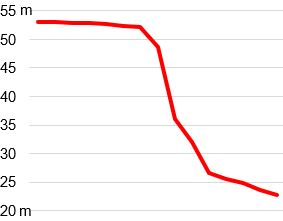
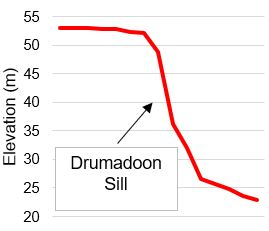
test18

diff --git a/index.html b/index.html
@@ -38,18 +38,28 @@
 				line-height: 30px;
 				width: 60px; 
 				margin-top: 50px;
-				margin-right: 60px;
+				margin-right: 5px;
 				position: absolute;
 				top: 0;
 				right: 0; 
 				background-color: white; 
 			}
 			
-			.border { 
+			.figureborder { 
 				border-style: solid; 
-				border-color:#287EC7;
-				padding: 2px; 
+				border-color:#FF2D00;
+				padding: 2px;
+				border-width: thin; 
+				background-color: #F9E5E1;  
 			} 
+			
+			.introborder { 
+				border-style: solid; 
+				border-color: #50B309; 
+				padding: 2px; 
+				border-width: thin; 
+				background-color:#E6FBD7;
+			}
 			
 		</style>
 	
@@ -192,7 +202,7 @@
 			L.geoJSON(inner_geofence1).addTo(map); 									// Add inner buffer to map 
 			L.geoJSON(outer_geofence1, {style: myStyle}).addTo(map); 			// Add outer buffer with style 
 			//create content for Goatfell 
-			var g_popupContent = ("<h1> Well done! You found Goatfell! </h1> <br> <b class='border'>Dominant rock type:</b> Granite </p> <b> Periods: </b> Paleogene (60 million years ago), Quaternary (2.5 million years ago)</p> </b> <p>Goatfell (Gaoda Bheinn) is the highest peak in Arran, standing at 874m at the summit. Goatfell started life as a volcano and was shaped into its current form by glaciers during the last ice age. </p> <img src= 'goatfell_hillshade_2.PNG'/> <p> This map shows the North Arran Mountains, encompassing Goatfell and its surroundings.</p> <p> The North Arran Mountains were formed by a granite pluton forcing its way through Northern Arran. Plutons form when magmas rise through the crust into dome shaped intrusions which are then exposed over time by erosion.</p> <img src = 'pluton.jpg'/> <p> Of course, today the mountains are no longer domed shaped, having been shaped by quaternary glaciation. The angular peaks of Goatfell display great examples of erosional features. Two particularly visible on the map are aretes and corries.</p> <img src='Goatfell_Corries.PNG'/> </p> Corries are circular depressions which form as accumulated snow in hollows turns to ice. As the ice moves downhill, the bottom of the hollow is eroded. This erosion is uneven and causes a lip to form. When two corries erode back to back, an arete, a narrow ridge is formed </p>")   //Add content using HTML tags 
+			var g_popupContent = ("<h1> Well done! You found Goatfell! </h1><b> Dominant rock type:</b> Granite</p><b> Periods: </b> Paleogene (60 million years ago), Quaternary (2.5 million years ago)</p> </b> <p>Goatfell (Gaoda Bheinn) is the highest peak in Arran, standing at 874m at the summit. Goatfell started life as a volcano and was shaped into its current form by glaciers during the last ice age. </p> <img src= 'goatfell_hillshade_2.PNG'/><p class='figureborder'> This map shows the North Arran Mountains, encompassing Goatfell and its surroundings.</p> <p> The North Arran Mountains were formed by a granite pluton forcing its way through Northern Arran. Plutons form when magmas rise through the crust into dome shaped intrusions which are then exposed over time by erosion.</p> <img src = 'pluton.jpg'/> <p> Of course, today the mountains are no longer domed shaped, having been shaped by quaternary glaciation. The angular peaks of Goatfell display great examples of erosional features. Two particularly visible on the map are aretes and corries.</p> <img src='Goatfell_Corries.PNG'/> </p> Corries are circular depressions which form as accumulated snow in hollows turns to ice. As the ice moves downhill, the bottom of the hollow is eroded. This erosion is uneven and causes a lip to form. When two corries erode back to back, an arete, a narrow ridge is formed </p>")   //Add content using HTML tags 
 			var g_popup = g.bindPopup(g_popupContent, { //Note to self- don't use double quotes with classes 
 				maxWidth: 320, 
 				maxHeight: 400// Makes sure popups accomadate photos 
@@ -207,7 +217,7 @@
 			L.geoJSON(inner_geofence2).addTo(map); 									// Add inner buffer to map 
 			L.geoJSON(outer_geofence2, {style: myStyle}).addTo(map); 			// Add outer buffer to map with style 
 			//Create content for Drumadoon Sill 	
-			var ds_popupContent = ("<b> Well done! You found Drumadoon Sill! </b> <br> <b> Dominant rock type:</b> Felsite </p> <b> Periods: </b> Paleogene (65 million years ago) </p> <p>Drumadoon Sill represents an igneous intrusion which forms part of a larger network of igneous features on the island.</p> <img src='sill_geology.JPG'/> <p> Sills are formed when volcanic magma intrudes between two layers of pre-exisitng sandstone. This is visible on the geology map where felsite intrudes the surrounding sandstone. The magma here originated from the same volcanic centre as the Northern Mountains and was intruded horizonally (remember window sills!).</P> <img src ='sill_cross_section.JPG'/> <p> Weathering of the surrounding softer sandstone led to the exposure of the volcanic rock as a sheer cliff, as can be seen in the cross section. The hexagon vertical columns (known as columnar joining) are a result of the presence of Quartz and Felspar and form during the cooling process. Similar columns can be seen at the Giant's Causeway and on the island of Staffa. </p>")   //Add content using HTML tags 
+			var ds_popupContent = ("<h1> Well done! You found Drumadoon Sill! </h1><b> Dominant rock type:</b> Felsite </p><b> Periods: </b> Paleogene (65 million years ago) </p> <p>Drumadoon Sill represents an igneous intrusion which forms part of a larger network of igneous features on the island.</p> <img src='sill_geology.JPG'/> <p> Sills are formed when volcanic magma intrudes between two layers of pre-exisitng sandstone. This is visible on the geology map where felsite intrudes the surrounding sandstone. The magma here originated from the same volcanic centre as the Northern Mountains and was intruded horizonally (remember window sills!).</P> <img src ='sill_cross_section.JPG'/> <p> Weathering of the surrounding softer sandstone led to the exposure of the volcanic rock as a sheer cliff, as can be seen in the cross section. The hexagon vertical columns (known as columnar joining) are a result of the presence of Quartz and Felspar and form during the cooling process. Similar columns can be seen at the Giant's Causeway and on the island of Staffa. </p>")   //Add content using HTML tags 
 			var ds_popup = ds.bindPopup(ds_popupContent, { 
 				maxWidth: 320, // Makes sure popups accomadate photos 
 				maxHeight: 400
@@ -222,7 +232,7 @@
 			L.geoJSON(inner_geofence3).addTo(map); 										// Add inner buffer to map 
 			L.geoJSON(outer_geofence3, {style: myStyle}).addTo(map); 				// Add outer buffer to map using style
 			//Create content for Corrie Sandstone 
-			var cs_popupContent = ("<b> Well done! You found Corrie Sandstone! </b> <br> <b> Dominant rock type: </b> Old red sandstone, Carboniferous rocks </p> <b> Periods: </b> Devonian (350 million years ago), Carboniferous (290 million years ago) </p> <p>This section of coastline at Corrie (An Coire) represents millions of years of geological time on Arran. The layers of rock present here provide an indication of the past conditions of the island.</p> <img src= 'CorrieSandstoneGeology.PNG'/><p>This geological map provides a snapshot of the variety of rocks in the area </p> <p> The red sandstone resembles sand dunes present on earth today and were formed when Arran consisted of its own desert. Dry conditions prevailed when Arran was located at a similar latitiude as the Sahara is now. Sand was deposited in a large desert and shaped by strong winds. The rocks are a distinctive red colour due to Iron Oxide. </p> <img src='sandstone_photo.jpg'/> <p> Conglomerates present were formed when eroded sediment from the nearby Caladonian mountains was washed into the area by flooding. The lava represents a Carboniferous lava flow. Overall the red sandstone and Carboniferous rocks represent very different geological time periods with harsh conditions in the former and more tropical conditions in the latter</p>")   //Add content using HTML tags 
+			var cs_popupContent = ("<h1> Well done! You found Corrie Sandstone! </h1><b> Dominant rock type: </b> Old red sandstone, Carboniferous rocks </p> <b> Periods: </b> Devonian (350 million years ago), Carboniferous (290 million years ago) </p> <p>This section of coastline at Corrie (An Coire) represents millions of years of geological time on Arran. The layers of rock present here provide an indication of the past conditions of the island.</p> <img src= 'CorrieSandstoneGeology.PNG'/><p>This geological map provides a snapshot of the variety of rocks in the area </p> <p> The red sandstone resembles sand dunes present on earth today and were formed when Arran consisted of its own desert. Dry conditions prevailed when Arran was located at a similar latitiude as the Sahara is now. Sand was deposited in a large desert and shaped by strong winds. The rocks are a distinctive red colour due to Iron Oxide. </p> <img src='sandstone_photo.jpg'/> <p> Conglomerates present were formed when eroded sediment from the nearby Caladonian mountains was washed into the area by flooding. The lava represents a Carboniferous lava flow. Overall the red sandstone and Carboniferous rocks represent very different geological time periods with harsh conditions in the former and more tropical conditions in the latter</p>")   //Add content using HTML tags 
 			var cs_popup = cs.bindPopup(cs_popupContent, { 
 				maxWidth: 320, 				// Makes sure popups accomadate photos
 				maxHeight: 400
@@ -234,9 +244,9 @@
 			let outer_geofence4 = turf.buffer(site_four, 0.1,{units: 'miles',steps:32});    // Add outer buffer
 			var gr = L.marker([53.795563,-1.755351], {icon:glenrosa}).bindPopup("Glen Rosa").addTo(map);  // Add custom icon 
 			L.geoJSON(inner_geofence4).addTo(map); 										// Add inner buffer to map 
-			L.geoJSON(outer_geofence4, {style: myStyle}).addTo(map); 				// Add outer buffer to map using style defined above 
+			L.geoJSON(outer_geofence4, {style: myStyle}).addTo(map);				// Add outer buffer to map using style defined above 
 			// Create content for Glen Rosa
-			var gr_popupContent = ("<b> Well done! You found Glen Rosa!</b> <br> <b> Dominant rock type: </b> Granite </p> <b> Periods: </b> Paleogene (60 million years ago), Quaternary (2.5 million years ago) </p> <P> Glen Rosa (Gleann Rusaidh) provides an excellent example of glacial activity on Arran. It also hosts hydrological features in Glen Rosa Water and Garbh Allt. </p> <img src= 'GlenRosaHillshade.PNG'/><p> The diagram shows Glen Rosa facing North, the direction from which a glacier moved carving the valley as it went. An interesting feature here is Garbh Allt, a hanging valley (labelled) to the east. This was formed as a smaller glacier eroded its valley slower than the main glacier in Glen Rosa. The result is a valley suspended above the glen.</p> <img src='GlenRosaCrossSection.png' /> <p> This cross section, taken from the above map,demonstrates the U shaped valley and its height.</p> <img src='GlenRosaHydrology.PNG'/> <p> The mound labelled as moraine marks an accumulation of debris carried and deposited by the glacier during its retreat. The moraine here provides evidence of two re/advances of the glacier.</p> <p> The river seem running through the valley is known as a misfit stream. These are rivers deemed too small to have carved the valley through which they flow and formed after glaciation</p>")   //Add content using HTML tags 
+			var gr_popupContent = ("<h1> Well done! You found Glen Rosa!</h1><b> Dominant rock type: </b> Granite </p> <b> Periods: </b> Paleogene (60 million years ago), Quaternary (2.5 million years ago) </p> <P class='introborder'> Glen Rosa (Gleann Rusaidh) provides an excellent example of glacial activity on Arran. It also hosts hydrological features in Glen Rosa Water and Garbh Allt. </p> <img src= 'GlenRosaHillshade.PNG'/><p> The diagram shows Glen Rosa facing North, the direction from which a glacier moved carving the valley as it went. An interesting feature here is Garbh Allt, a hanging valley (labelled) to the east. This was formed as a smaller glacier eroded its valley slower than the main glacier in Glen Rosa. The result is a valley suspended above the glen.</p> <img src='GlenRosaCrossSection.png' /> <p class='figureborder'> This cross section, taken from the above map,demonstrates the U shaped valley and its height.</p> <img src='GlenRosaHydrology.PNG'/> <p> The mound labelled as moraine marks an accumulation of debris carried and deposited by the glacier during its retreat. The moraine here provides evidence of two re/advances of the glacier.</p> <p> The river seem running through the valley is known as a misfit stream. These are rivers deemed too small to have carved the valley through which they flow and formed after glaciation</p>")   //Add content using HTML tags 
 			var gr_popup = gr.bindPopup(gr_popupContent, { 
 				maxWidth: 320,				// Makes sure popups accomadate photos 
 				maxHeight: 400
@@ -251,7 +261,7 @@
 			L.geoJSON(inner_geofence5).addTo(map); 										// Add inner buffer to map 
 			L.geoJSON(outer_geofence5, {style: myStyle}).addTo(map); 				// Add outer buffer to map using style defined above
 			//Create content for Huttons unconformity 
-			var hc_popupContent = ("<b> Well done! You found Huttons Unconformity! </b> <br> <b> Dominant rock type: </b> Dalradian Schists, Carboniferous sandstone </p> <b> Period: </b> Cambrian (540 million years ago), Carboniferous (350 million years) </p> <p> Hutton's Unconformity boasts some of the oldest rocks on Arran as well as providing a scientific breakthrough for 18th centruy geologist James Hutton which helped shape our understanding of geoloigcal time </p> <img src= 'Huttons_unconformity_geology.JPG'/> <p> Arran's oldest rocks, Schists, were formed as tectonic plates collided and buckled under the pressure. The newer Carboniferous rocks were formed when sediment from the sea was deposited on top. Hutton's Unconformity consists of this gently sloping sandstone atop steeply dipping Schists. This change in rock type can be seen on the geoloigcal map. </p> <img src= 'Huttons_unconformity_diagram.jpg'/> <p> This diagram by James Hutton highlights the unconformity. His discovery on Arran led to a better understanding of the age of the earth and paved the way for more scientific ways of thinking around earth processes</p>")   //Add content using HTML tags 
+			var hc_popupContent = ("<h1> Well done! You found Huttons Unconformity! </h1><b> Dominant rock type: </b> Dalradian Schists, Carboniferous sandstone </p> <b> Period: </b> Cambrian (540 million years ago), Carboniferous (350 million years) </p> <p> Hutton's Unconformity boasts some of the oldest rocks on Arran as well as providing a scientific breakthrough for 18th centruy geologist James Hutton which helped shape our understanding of geoloigcal time </p> <img src= 'Huttons_unconformity_geology.JPG'/> <p> Arran's oldest rocks, Schists, were formed as tectonic plates collided and buckled under the pressure. The newer Carboniferous rocks were formed when sediment from the sea was deposited on top. Hutton's Unconformity consists of this gently sloping sandstone atop steeply dipping Schists. This change in rock type can be seen on the geoloigcal map. </p> <img src= 'Huttons_unconformity_diagram.jpg'/> <p> This diagram by James Hutton highlights the unconformity. His discovery on Arran led to a better understanding of the age of the earth and paved the way for more scientific ways of thinking around earth processes</p>")   //Add content using HTML tags 
 			var hc_popup = hc.bindPopup(hc_popupContent, { 
 				maxWidth: 320,				// Makes sure popups accomadate photos 
 				maxHeight: 400
@@ -265,7 +275,7 @@
 			L.geoJSON(inner_geofence6).addTo(map); 										// Add inner buffer to map 
 			L.geoJSON(outer_geofence6, {style: myStyle}).addTo(map); 				// Add outer buffer to map using style defined above 
 			//Create content for Kildonan Dykes 
-			var kd_popupContent = ("<b> Well done! You found Kildonan Dykes! </b> <br> <b> Dominant rock type: </b> Basalt </p> <b> Period: </b> Paleogene (60 million years ago) </p> < <img src= 'Kildonan_dykes_geology.JPG'/> <img src= 'Kildonan_dykes_photo.JPG' />")   //Add content using HTML tags 
+			var kd_popupContent = ("<h1> Well done! You found Kildonan Dykes! </h1><b> Dominant rock type: </b> Basalt </p> <b> Period: </b> Paleogene (60 million years ago) </p> < <img src= 'Kildonan_dykes_geology.JPG'/> <img src= 'Kildonan_dykes_photo.JPG' />")   //Add content using HTML tags 
 			var kd_popup = kd.bindPopup(kd_popupContent, { 
 				maxWidth: 320, // Makes sure popups accomadate photos 
 				maxHeight: 400
